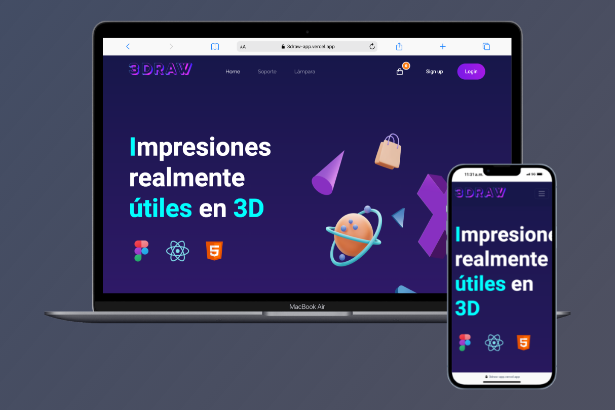
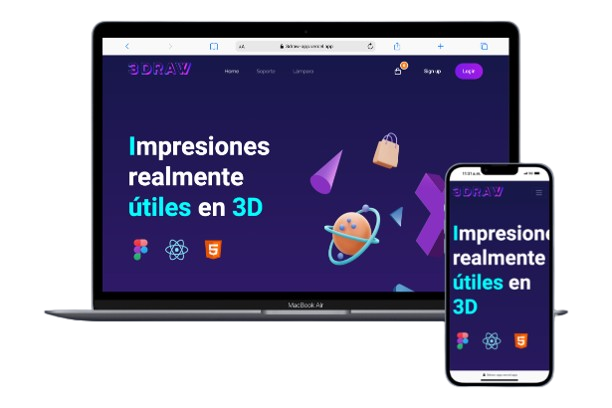
se ajusta card de proyectos

diff --git a/index.html b/index.html
@@ -494,7 +494,7 @@
                 <div class="card card-back" style="width: 22rem;">
                     <img src="/assets/img/emed-trizano.png" class="img-fluid  card-img-top" alt="Emed Trizano">
                     <div class="card-body">
-                      <h5 class="card-title fw-bold">Emed Trizano</h5>
+                      <h5 class="card-title">Emed Trizano</h5>
                       <hr class="text-secondary  opacity-85"> 
                       <p class="card-text">Desarrollé un sitio web informativo para medicos de la región de temuco</p>
                       <hr class="text-secondary  opacity-85"> 
@@ -512,9 +512,9 @@
             <div class="card card-back" style="width: 22rem;">
                 <img src="/assets/img/3d-draw.png" class="img-fluid  card-img-top" alt="App 3Draw E-commerce">
                 <div class="card-body">
-                  <h5 class="card-title fw-bold">3Draw E-commerce</h5>
+                  <h5 class="card-title fw-light">3Draw E-commerce</h5>
                   <hr class="text-secondary  opacity-85"> 
-                  <p class="card-text">Aplicación utilizando el CLI con el nombre de tu tienda</p>
+                  <p class="card-text">Aplicación e-commerce para Proyecto final de JavaScript </p>
                   <hr class="text-secondary  opacity-85"> 
                   <span class="badge text-bg-secondary">React Js</span>
                   <span class="badge text-bg-secondary">Bootswatch</span>
@@ -534,7 +534,7 @@
         <div class="card card-back" style="width: 22rem;">
             <img src="/assets/img/dayly-task.png" class="img-fluid  card-img-top" alt="App dayle tasks">
             <div class="card-body">
-              <h5 class="card-title fw-bold">Dayle Tasks</h5>
+              <h5 class="card-title">Dayle Tasks</h5>
               <hr class="text-secondary  opacity-85"> 
               <p class="card-text">Una App de Planificador de tareas para organizar tu trabajo y tu vida</p>
               <hr class="text-secondary  opacity-85"> 
